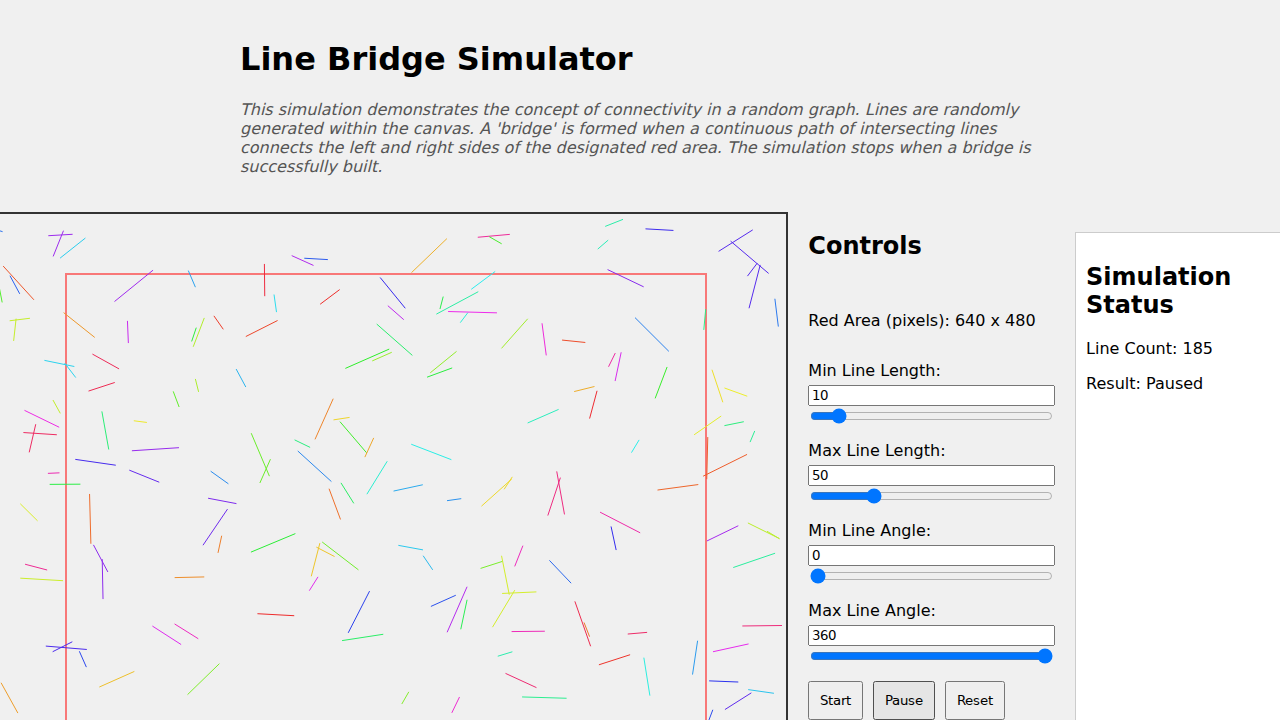
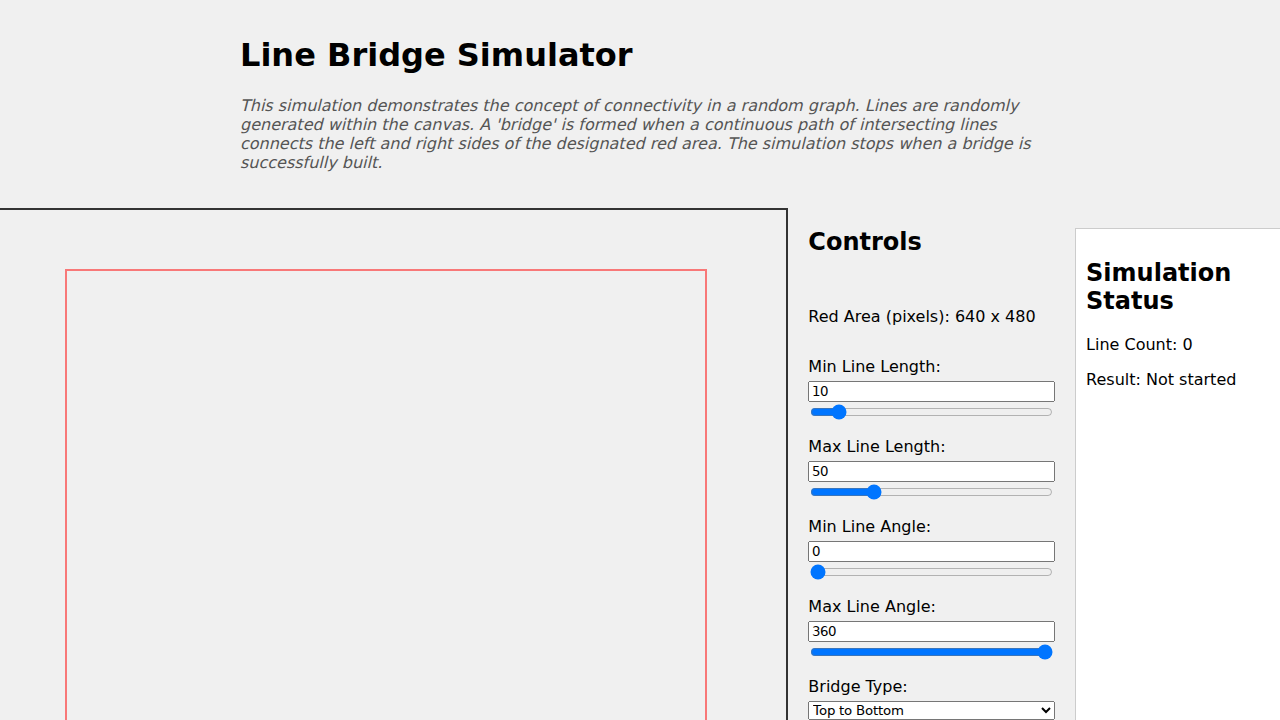
feat: Add boundary condition toggling
This commit introduces a new feature that allows users to select the boundary conditions for bridge detection in the Line Bridge Simulator.

Key changes include:
- Added a dropdown menu to the UI for selecting between "Left to Right" and "Top to Bottom" boundary conditions.
- Updated the simulation engine to pass the selected boundary condition to the bridge-checking logic.
- Refactored the `checkForBridge` function to handle different boundary conditions dynamically.
- Updated the README.md to document the new feature.

diff --git a/utils.js b/utils.js
@@ -72,49 +72,62 @@ function onSegment(p, q, r) {
 // Task 4.2: Develop the Graph Connectivity Algorithm
 
 /**
- * Checks if a set of lines forms a bridge from the left to the right side of a given area.
+ * Checks if a set of lines forms a bridge across a given area based on specified boundary conditions.
  * @param {Array<object>} lines - An array of line objects ({ x1, y1, x2, y2 }).
  * @param {object} bridgeArea - The area to check for a bridge within ({ x, y, width, height }).
+ * @param {string} boundaryCondition - The type of bridge to check for ('left-to-right', 'top-to-bottom').
  * @returns {object} - An object with `pathFound` (boolean) and `path` (array of line indices).
  */
-function checkForBridge(lines, bridgeArea) {
+function checkForBridge(lines, bridgeArea, boundaryCondition = 'left-to-right') {
     if (lines.length === 0) {
         return { pathFound: false, path: [] };
     }
 
-    const leftStarters = [];
-    const rightFinishers = new Set();
+    const starters = [];
+    const finishers = new Set();
+    const tolerance = 1e-9; // A small tolerance for floating-point comparisons to the edge.
 
+    // Define boundaries from the bridgeArea object
     const leftBoundary = bridgeArea.x;
     const rightBoundary = bridgeArea.x + bridgeArea.width;
+    const topBoundary = bridgeArea.y;
+    const bottomBoundary = bridgeArea.y + bridgeArea.height;
 
-    // A small tolerance is necessary for floating-point comparisons to the edge.
-    const tolerance = 1e-9;
-
+    // Identify starter and finisher lines based on the boundary condition
     for (let i = 0; i < lines.length; i++) {
         const line = lines[i];
-        // A line is a "starter" if one of its endpoints is on or very near the left edge.
-        const touchesLeft = line.x1 <= leftBoundary + tolerance || line.x2 <= leftBoundary + tolerance;
-        // A line is a "finisher" if one of its endpoints is on or very near the right edge.
-        const touchesRight = line.x1 >= rightBoundary - tolerance || line.x2 >= rightBoundary - tolerance;
+        let touchesStart = false;
+        let touchesFinish = false;
 
-        if (touchesLeft) {
-            leftStarters.push(i);
+        switch (boundaryCondition) {
+            case 'top-to-bottom':
+                touchesStart = line.y1 <= topBoundary + tolerance || line.y2 <= topBoundary + tolerance;
+                touchesFinish = line.y1 >= bottomBoundary - tolerance || line.y2 >= bottomBoundary - tolerance;
+                break;
+            case 'left-to-right':
+            default: // Default to left-to-right for safety
+                touchesStart = line.x1 <= leftBoundary + tolerance || line.x2 <= leftBoundary + tolerance;
+                touchesFinish = line.x1 >= rightBoundary - tolerance || line.x2 >= rightBoundary - tolerance;
+                break;
         }
-        if (touchesRight) {
-            rightFinishers.add(i);
+
+        if (touchesStart) {
+            starters.push(i);
+        }
+        if (touchesFinish) {
+            finishers.add(i);
         }
     }
 
-    if (leftStarters.length === 0 || rightFinishers.size === 0) {
+    if (starters.length === 0 || finishers.size === 0) {
         return { pathFound: false, path: [] };
     }
 
+    // Build the adjacency list for the graph of intersecting lines
     const adj = new Map();
     for (let i = 0; i < lines.length; i++) {
         adj.set(i, []);
     }
-
     for (let i = 0; i < lines.length; i++) {
         for (let j = i + 1; j < lines.length; j++) {
             if (intersects(lines[i], lines[j])) {
@@ -124,14 +137,16 @@ function checkForBridge(lines, bridgeArea) {
         }
     }
 
-    const queue = [...leftStarters];
-    const visited = new Set(leftStarters);
-    const parent = new Map(); // To reconstruct the path
+    // Perform a Breadth-First Search (BFS) to find a path
+    const queue = [...starters];
+    const visited = new Set(starters);
+    const parent = new Map(); // To reconstruct the path if one is found
 
     while (queue.length > 0) {
         const currentIndex = queue.shift();
 
-        if (rightFinishers.has(currentIndex)) {
+        // If a starter line is also a finisher line, a path is found.
+        if (finishers.has(currentIndex)) {
             // --- Path Reconstruction ---
             const path = [];
             let current = currentIndex;
@@ -142,11 +157,12 @@ function checkForBridge(lines, bridgeArea) {
             return { pathFound: true, path: path }; // Bridge found!
         }
 
+        // Explore neighbors
         const neighbors = adj.get(currentIndex);
         for (const neighborIndex of neighbors) {
             if (!visited.has(neighborIndex)) {
                 visited.add(neighborIndex);
-                parent.set(neighborIndex, currentIndex); // Set parent
+                parent.set(neighborIndex, currentIndex); // Keep track of the path
                 queue.push(neighborIndex);
             }
         }

diff --git a/ui.js b/ui.js
@@ -15,6 +15,7 @@ document.addEventListener('DOMContentLoaded', () => {
     const maxLengthInput = document.getElementById('max-length');
     const minAngleInput = document.getElementById('min-angle');
     const maxAngleInput = document.getElementById('max-angle');
+    const boundaryConditionInput = document.getElementById('boundary-condition');
 
     const minLengthSlider = document.getElementById('min-length-slider');
     const maxLengthSlider = document.getElementById('max-length-slider');
@@ -100,6 +101,7 @@ document.addEventListener('DOMContentLoaded', () => {
             maxLength: parseInt(maxLengthInput.value),
             minAngle: parseInt(minAngleInput.value),
             maxAngle: parseInt(maxAngleInput.value),
+            boundaryCondition: boundaryConditionInput.value,
         };
     }
 
@@ -134,7 +136,7 @@ document.addEventListener('DOMContentLoaded', () => {
 
     // Update engine parameters when any control changes
     [minLengthInput, maxLengthInput, minAngleInput, maxAngleInput,
-     minLengthSlider, maxLengthSlider, minAngleSlider, maxAngleSlider].forEach(input => {
+     minLengthSlider, maxLengthSlider, minAngleSlider, maxAngleSlider, boundaryConditionInput].forEach(input => {
         input.addEventListener('change', () => {
             engine.simulationParameters = getParametersFromUI();
         });

diff --git a/engine.js b/engine.js
@@ -12,7 +12,8 @@ class SimulationEngine {
             minLength: 10,
             maxLength: 50,
             minAngle: 0,
-            maxAngle: 360
+            maxAngle: 360,
+            boundaryCondition: 'left-to-right',
         };
 
         // Define the inner "bridge area" with a margin.
@@ -103,7 +104,7 @@ class SimulationEngine {
         this.clusters = findAllClusters(this.lines);
 
         // 4. Check if a bridge has been formed.
-        const bridgeResult = checkForBridge(this.lines, this.bridgeArea);
+        const bridgeResult = checkForBridge(this.lines, this.bridgeArea, this.simulationParameters.boundaryCondition);
 
         // 5. If a bridge exists, stop the simulation.
         if (bridgeResult.pathFound) {

diff --git a/index.html b/index.html
@@ -49,6 +49,14 @@
             <input type="range" id="max-angle-slider" min="0" max="360" value="360">
         </div>
 
+        <div class="control-group">
+            <label for="boundary-condition">Bridge Type:</label>
+            <select id="boundary-condition">
+                <option value="left-to-right" selected>Left to Right</option>
+                <option value="top-to-bottom">Top to Bottom</option>
+            </select>
+        </div>
+
         <div id="simulation-actions">
             <button id="start-button">Start</button>
             <button id="pause-button">Pause</button>

diff --git a/jules-scratch/verification/verify_boundary_conditions.py b/jules-scratch/verification/verify_boundary_conditions.py
@@ -1,0 +1,33 @@
+from playwright.sync_api import sync_playwright, expect
+import os
+
+def run_verification():
+    with sync_playwright() as p:
+        browser = p.chromium.launch(headless=True)
+        page = browser.new_page()
+
+        # Get the absolute path to the index.html file
+        file_path = "file://" + os.path.abspath("index.html")
+        page.goto(file_path)
+
+        # 1. Locate the dropdown
+        boundary_dropdown = page.locator("#boundary-condition")
+
+        # Scroll the element into view to ensure it's visible
+        boundary_dropdown.scroll_into_view_if_needed()
+
+        # 2. Select the 'Top to Bottom' option
+        boundary_dropdown.select_option("top-to-bottom")
+
+        # 3. Assert that the value has been updated
+        expect(boundary_dropdown).to_have_value("top-to-bottom")
+
+        # 4. Take a screenshot to visually verify the change
+        screenshot_path = "jules-scratch/verification/verification.png"
+        page.screenshot(path=screenshot_path)
+
+        browser.close()
+        print(f"Screenshot saved to {screenshot_path}")
+
+if __name__ == "__main__":
+    run_verification()

diff --git a/README.md b/README.md
@@ -10,7 +10,7 @@ A web-based simulation exploring concepts of percolation theory by randomly plac
 
 The **Line Bridge Simulator** is an interactive application that demonstrates a 2D percolation problem. The user defines a set of parameters—specifically, the permissible range for line **lengths** and **angles**.
 
-The simulation begins by randomly placing lines, one by one, onto a rectangular canvas. Each new line adheres to the user-defined parameters. After each placement, the simulation checks if a "bridge" has been formed. A bridge is a continuous, unbroken chain of intersecting lines that connects the **left boundary** of the canvas to the **right boundary**.
+The simulation begins by randomly placing lines, one by one, onto a rectangular canvas. Each new line adheres to the user-defined parameters. After each placement, the simulation checks if a "bridge" has been formed. A "bridge" is a continuous, unbroken chain of intersecting lines that connects two opposite sides of a designated area. The user can select the boundary condition, such as **left-to-right** or **top-to-bottom**.
 
 The simulation stops the moment a bridge is successfully formed. The primary output is the total **number of lines** required to achieve this connection. This project is designed with a highly modular architecture to allow different components (e.g., the simulation logic, the rendering engine, the user interface) to be developed and tested independently and in parallel.
 
@@ -18,6 +18,7 @@ The simulation stops the moment a bridge is successfully formed. The primary out
 
 ## ✨ Core Features
 
+  * **Boundary Condition Toggling**: Select the type of bridge to form, such as "Left to Right" or "Top to Bottom".
   * **Interactive Controls**: Sliders and input fields for setting the minimum/maximum line length and angle.
   * **Dynamic Simulation**: Watch lines being placed in real-time on an HTML canvas.
   * **State Controls**: Buttons to **Start**, **Stop/Pause**, and **Reset** the simulation.
@@ -160,7 +161,7 @@ This project provides a solid foundation for exploring percolation theory, but t
 
 ### **Feature Enhancements & Bugfixes**
 
-*   **Boundary Condition Toggling**: Allow the user to change the boundary conditions. For example, check for a bridge from top-to-bottom, or from a corner to the opposite corner.
+*   **Diagonal or Corner-to-Corner Bridges**: Extend the boundary condition options to include more complex scenarios, such as checking for a bridge from the top-left corner to the bottom-right corner.
 
 ### **Performance Optimizations**
 
